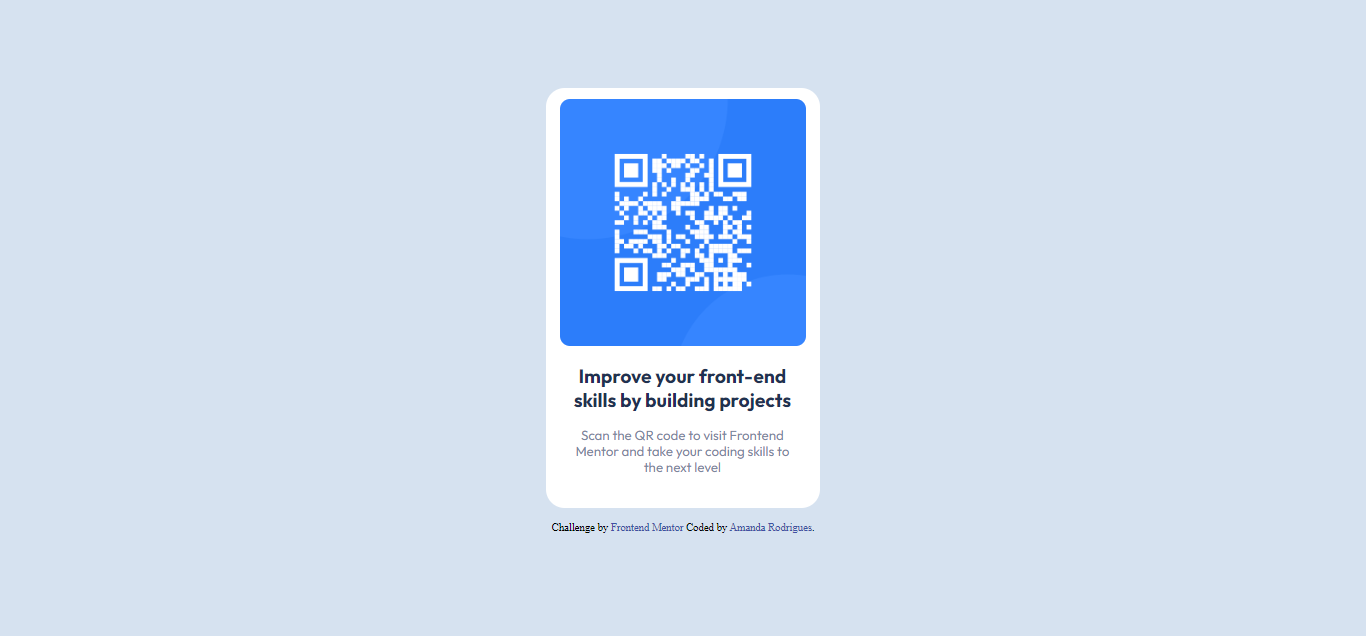
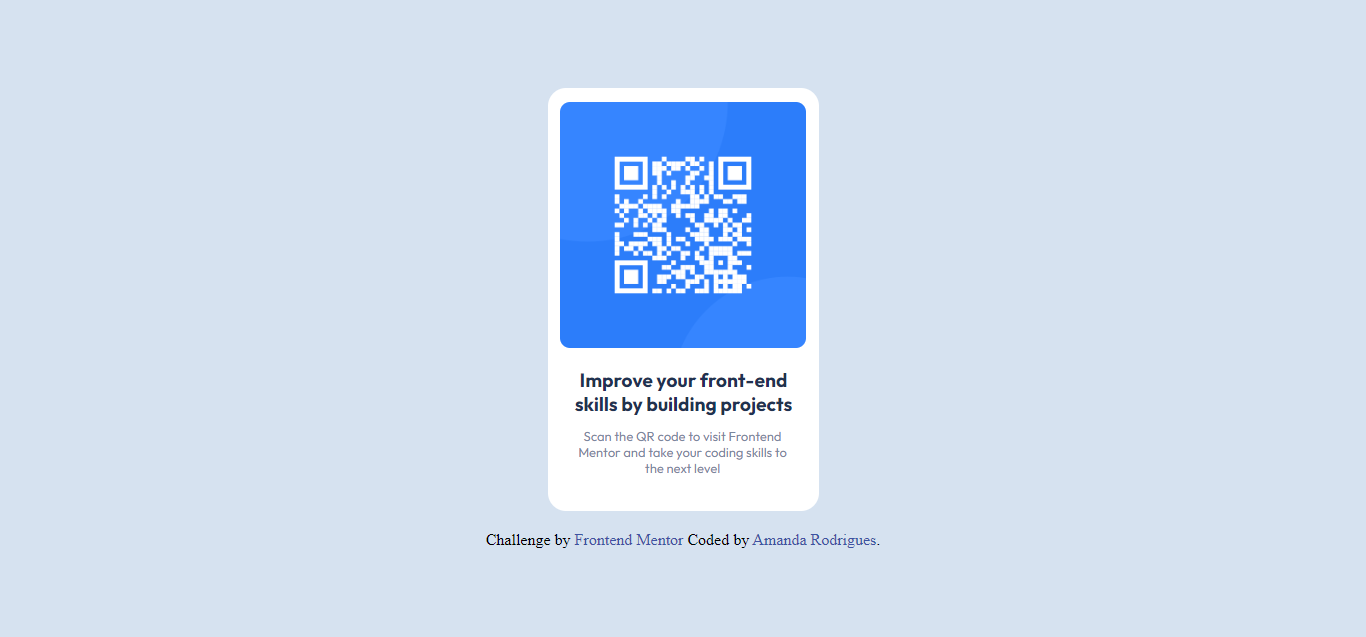
commit inicial

diff --git a/style.css b/style.css
@@ -3,37 +3,37 @@ body{
 }
 .center{
     background-color: #fff;
-    min-height: 598px;
-    max-width: 380px;
+    min-height: 395px;
+    max-width: 255px;
     margin: auto;
-    margin-top: 140px;
-    padding: 16px;
-    border-radius: 28px;
+    margin-top: 90px;
+    padding: 14px 8px;
+    border-radius: 18px;
 }
 img{
-    height: 370px;
-    width: 370px;
+    height: 246px;
+    width: 246px;
     display: block;
     margin: auto;
-    border-radius: 15px;
+    border-radius: 10px;
 }
 h1{
     color: hsl(218, 44%, 22%);
     font-family: 'Outfit', sans-serif;
-    font-weight: bold;
-    font-size: 1.8em;
-    max-width: 360px;
+    font-weight: bolder;
+    font-size: 1.2em;
+    max-width: 250px;
     text-align: center;
-    margin:  28px 9px 10px 9px;
+    margin:  20px 14px 10px 15px;
 }
 p{
     color: hsl(220, 15%, 55%);
     font-family: 'Outfit', sans-serif;
     font-weight: 400;
-    font-size: 20px;
+    font-size: 13px;
     text-align: center;
-    max-width: 322px;
-    margin: 22px 28px;
+    max-width: 210px;
+    margin: 12px 15px 14px 22px;
 }
 .attribution{
     text-align: center;

diff --git a/index.html b/index.html
@@ -19,7 +19,7 @@
     </div>
   </main> 
   <footer class="attribution">
-    Challenge by <a href="https://www.frontendmentor.io?ref=challenge" target="_blank">Frontend Mentor</a> Coded by <a href="#"> Amanda Rodrigues</a>.
+    Challenge by <a href="https://www.frontendmentor.io?ref=challenge" target="_blank">Frontend Mentor</a> Coded by <a href="https://github.com/Amandarv300" target="_blank"> Amanda Rodrigues</a>.
   </footer>
 </body>
 </html>
